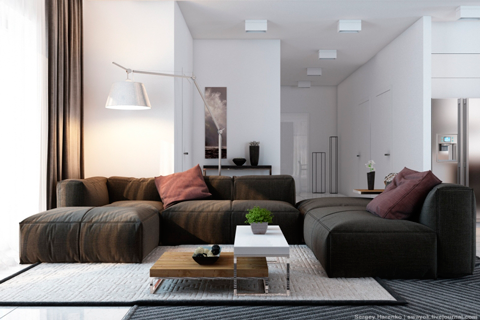
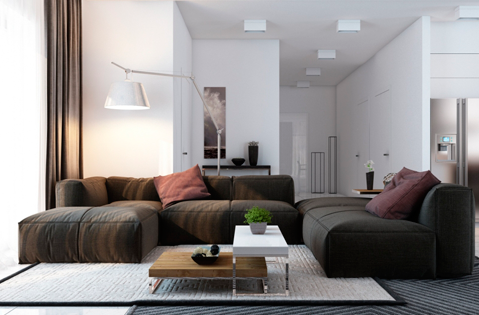
image 5 livingroom crop and landingpage banenr changes

diff --git a/interior-designing-furnishing/index.html b/interior-designing-furnishing/index.html
@@ -91,30 +91,35 @@
                     </div>
                 </div>
                 
-               <div class="uk-container uk-container-center uk-margin-large-top"> 
+               <div class="uk-container uk-container-center uk-margin-top"> 
                    
                    <div class="uk-grid uk-grid-large">
                     
                     <div class="uk-width-medium-1-2 ">
                        
     <div class="">
-        <h1 class="">Get free Consultation Now</h1>
+        <h1 class="">Get FREE Consultation at your Doorstep</h1>
          <p class="uk-margin-top">
                      
-Lorem ipsum dolor sit amet, consectetur adipisicing elit. 
-Lorem ipsum dolor sit amet, consectetur adipisicing elit. 
-Lorem ipsum dolor sit amet, consectetur adipisicing elit. 
+Commercial &amp; Office Interior Design &amp; Execution at affordable prices.  
 
                     </p>
     
     
 </div>
+                 
+                 <div class="uk-grid">
+                     <div class="uk-width-medium-1-3">1</div>                     
+                     <div class="uk-width-medium-1-3">2</div>                     
+                     <div class="uk-width-medium-1-3">3</div>                     
+                 </div>
                   
                     </div>
                     
                     <div class="uk-width-medium-1-2">
                 
                  <form id="form_contact_top" action="../PHPMailer/MailFunction.php" method="POST" class="uk-form kc-form-comment uk-align-center">
+                           <p class="uk-text-center"> Get your Dream Home NOW ...</p>
                             <div class="uk-grid p-10">
                                 <div class="uk-width-medium-1-1 uk-width-small-1-1 uk-width-1-1">
                                     <div class="uk-form-icon">

diff --git a/interior-designing-furnishing/landing.css b/interior-designing-furnishing/landing.css
@@ -1,10 +1,11 @@
 /*Landing PAGE */
 
 .bg-top{
-    background: linear-gradient(rgba(0,0,0,0.5),rgba(  0,0,0,0.7)),url(../images/team/workers_vietnam.jpg);
+    background: linear-gradient(rgba(0,0,0,0.3),rgba(  0,0,0,0.1)),url(../images/design/living-room-design/4.jpeg);
     height: 90vh;
     background-repeat: no-repeat;
     background-size: cover;
+    margin-left: -30px;
 /*
     position: fixed;
     width: 100vw;
@@ -14,7 +15,8 @@
 .bg-top h1{
     font-size: 40px;
     font-weight: 600;
-    color: #e5c882;
+/*    color: #e5c882;*/
+    color: #100909;
 }
 
 .bg-top p{
